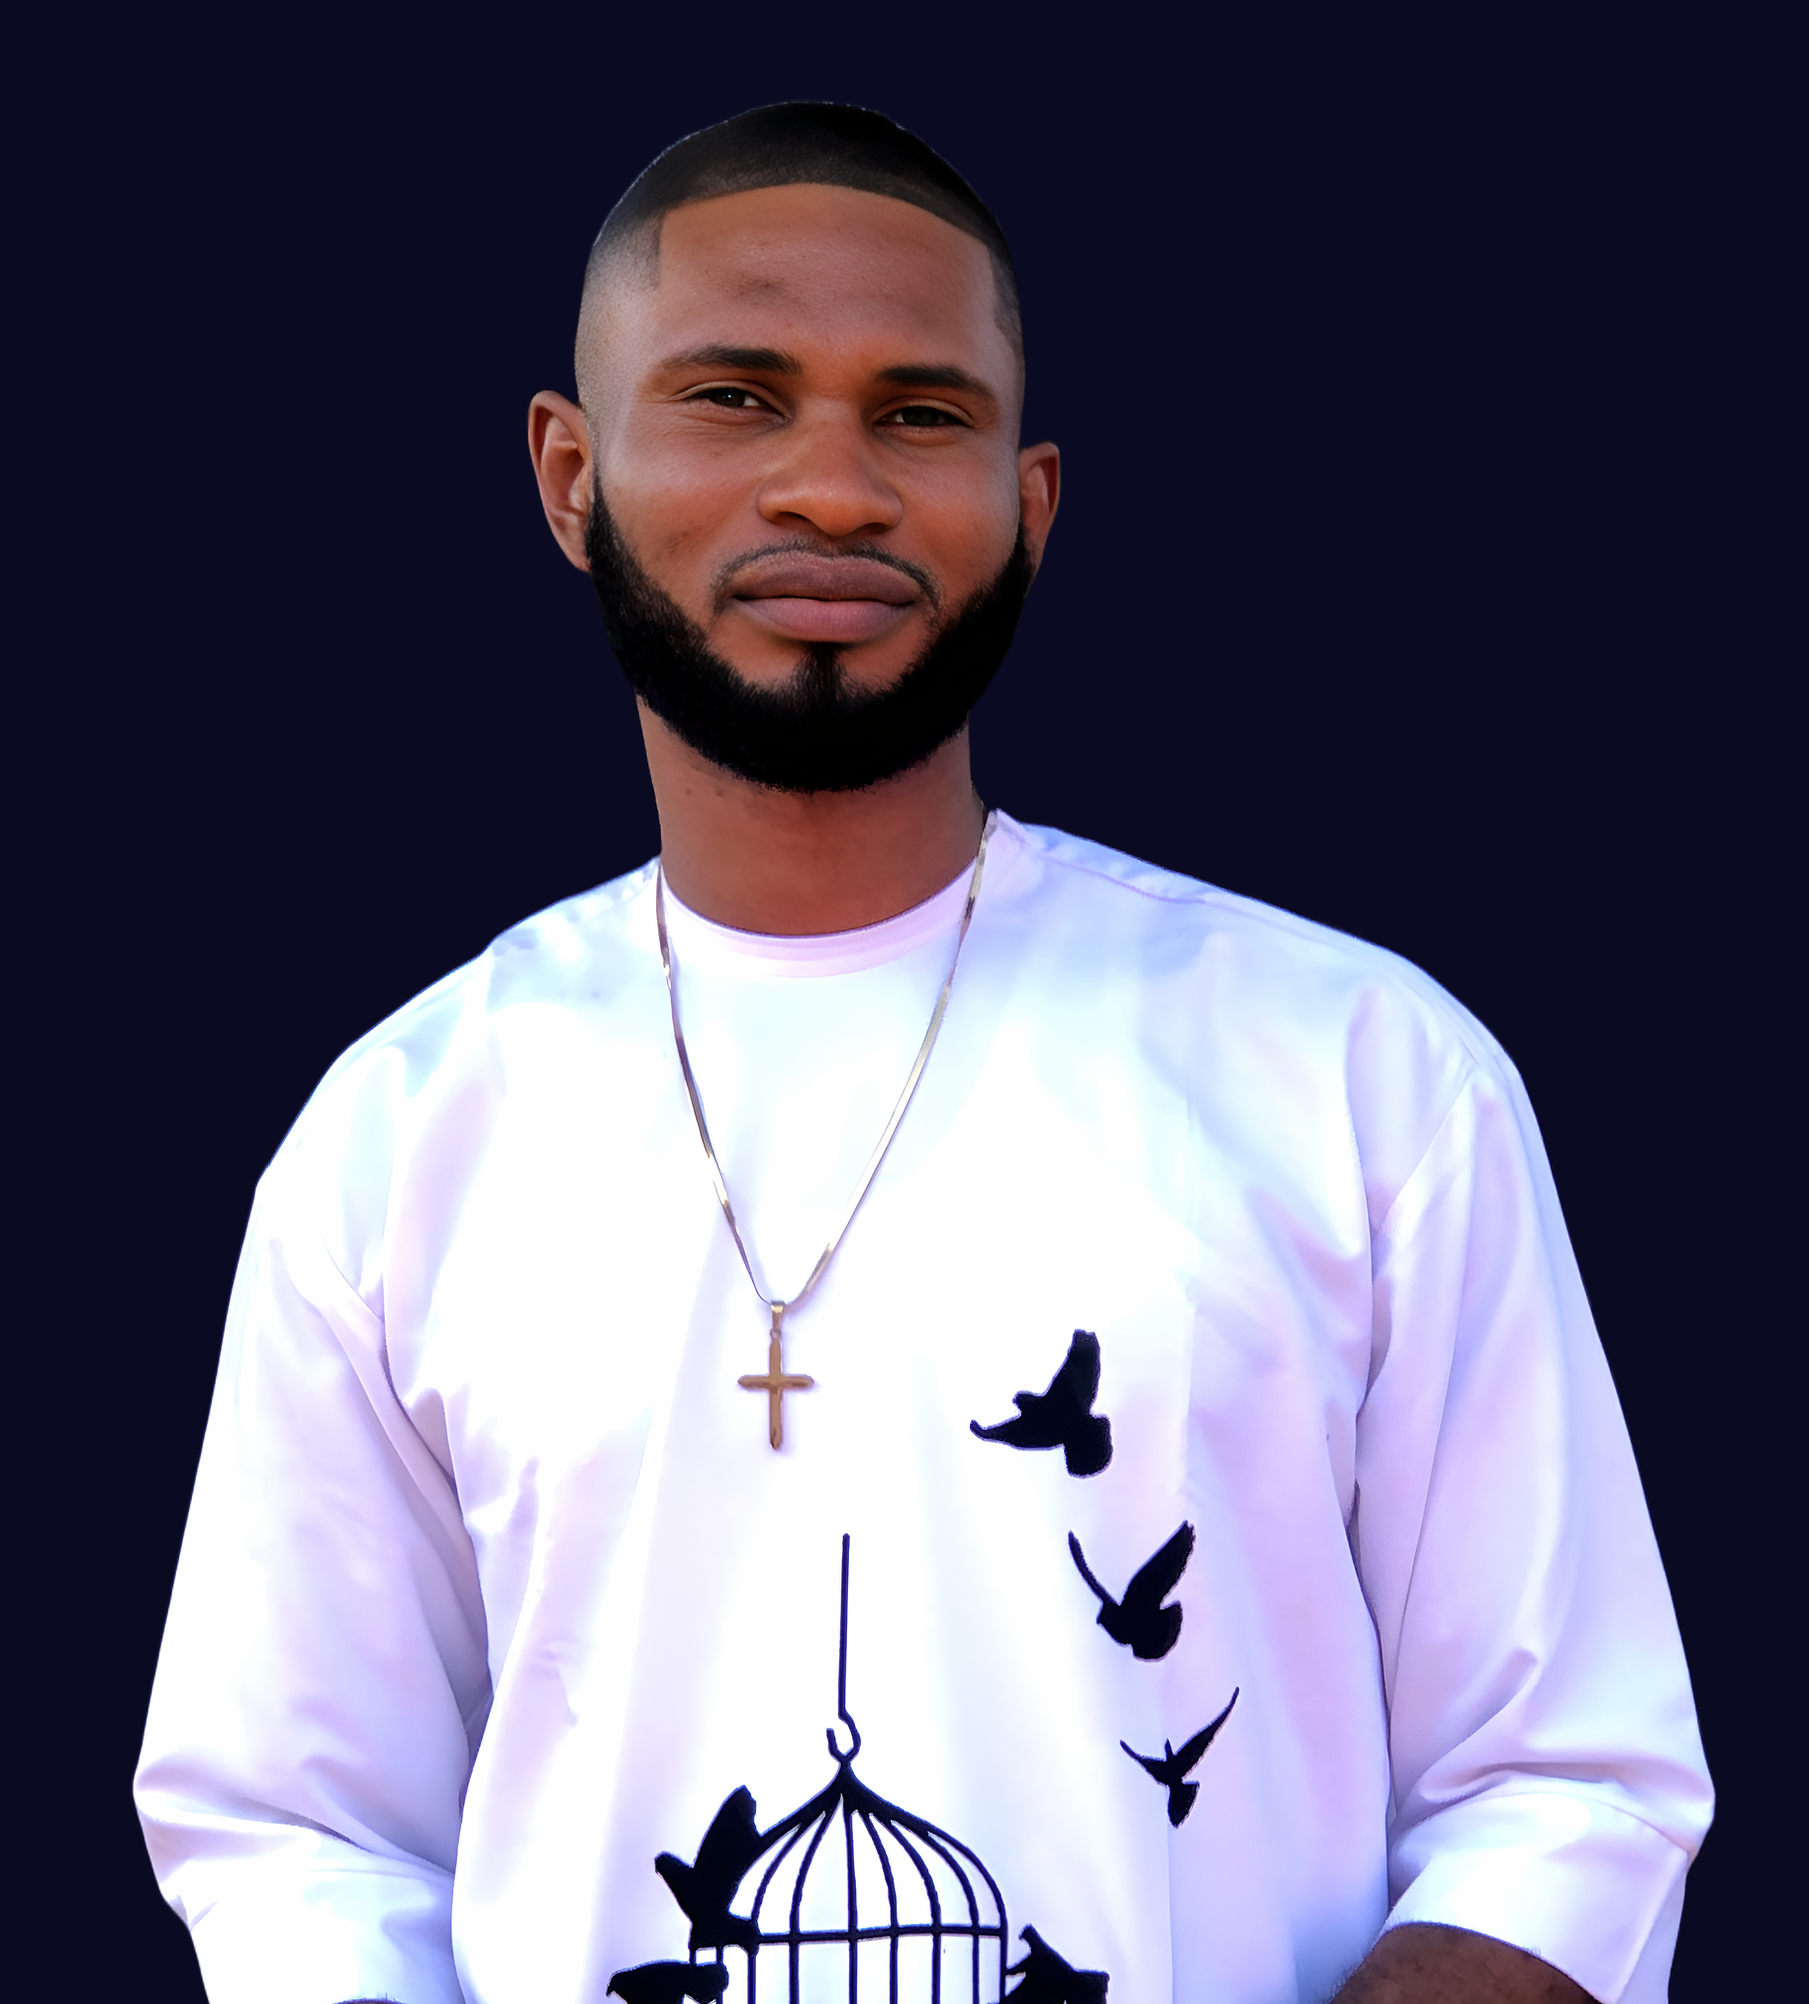
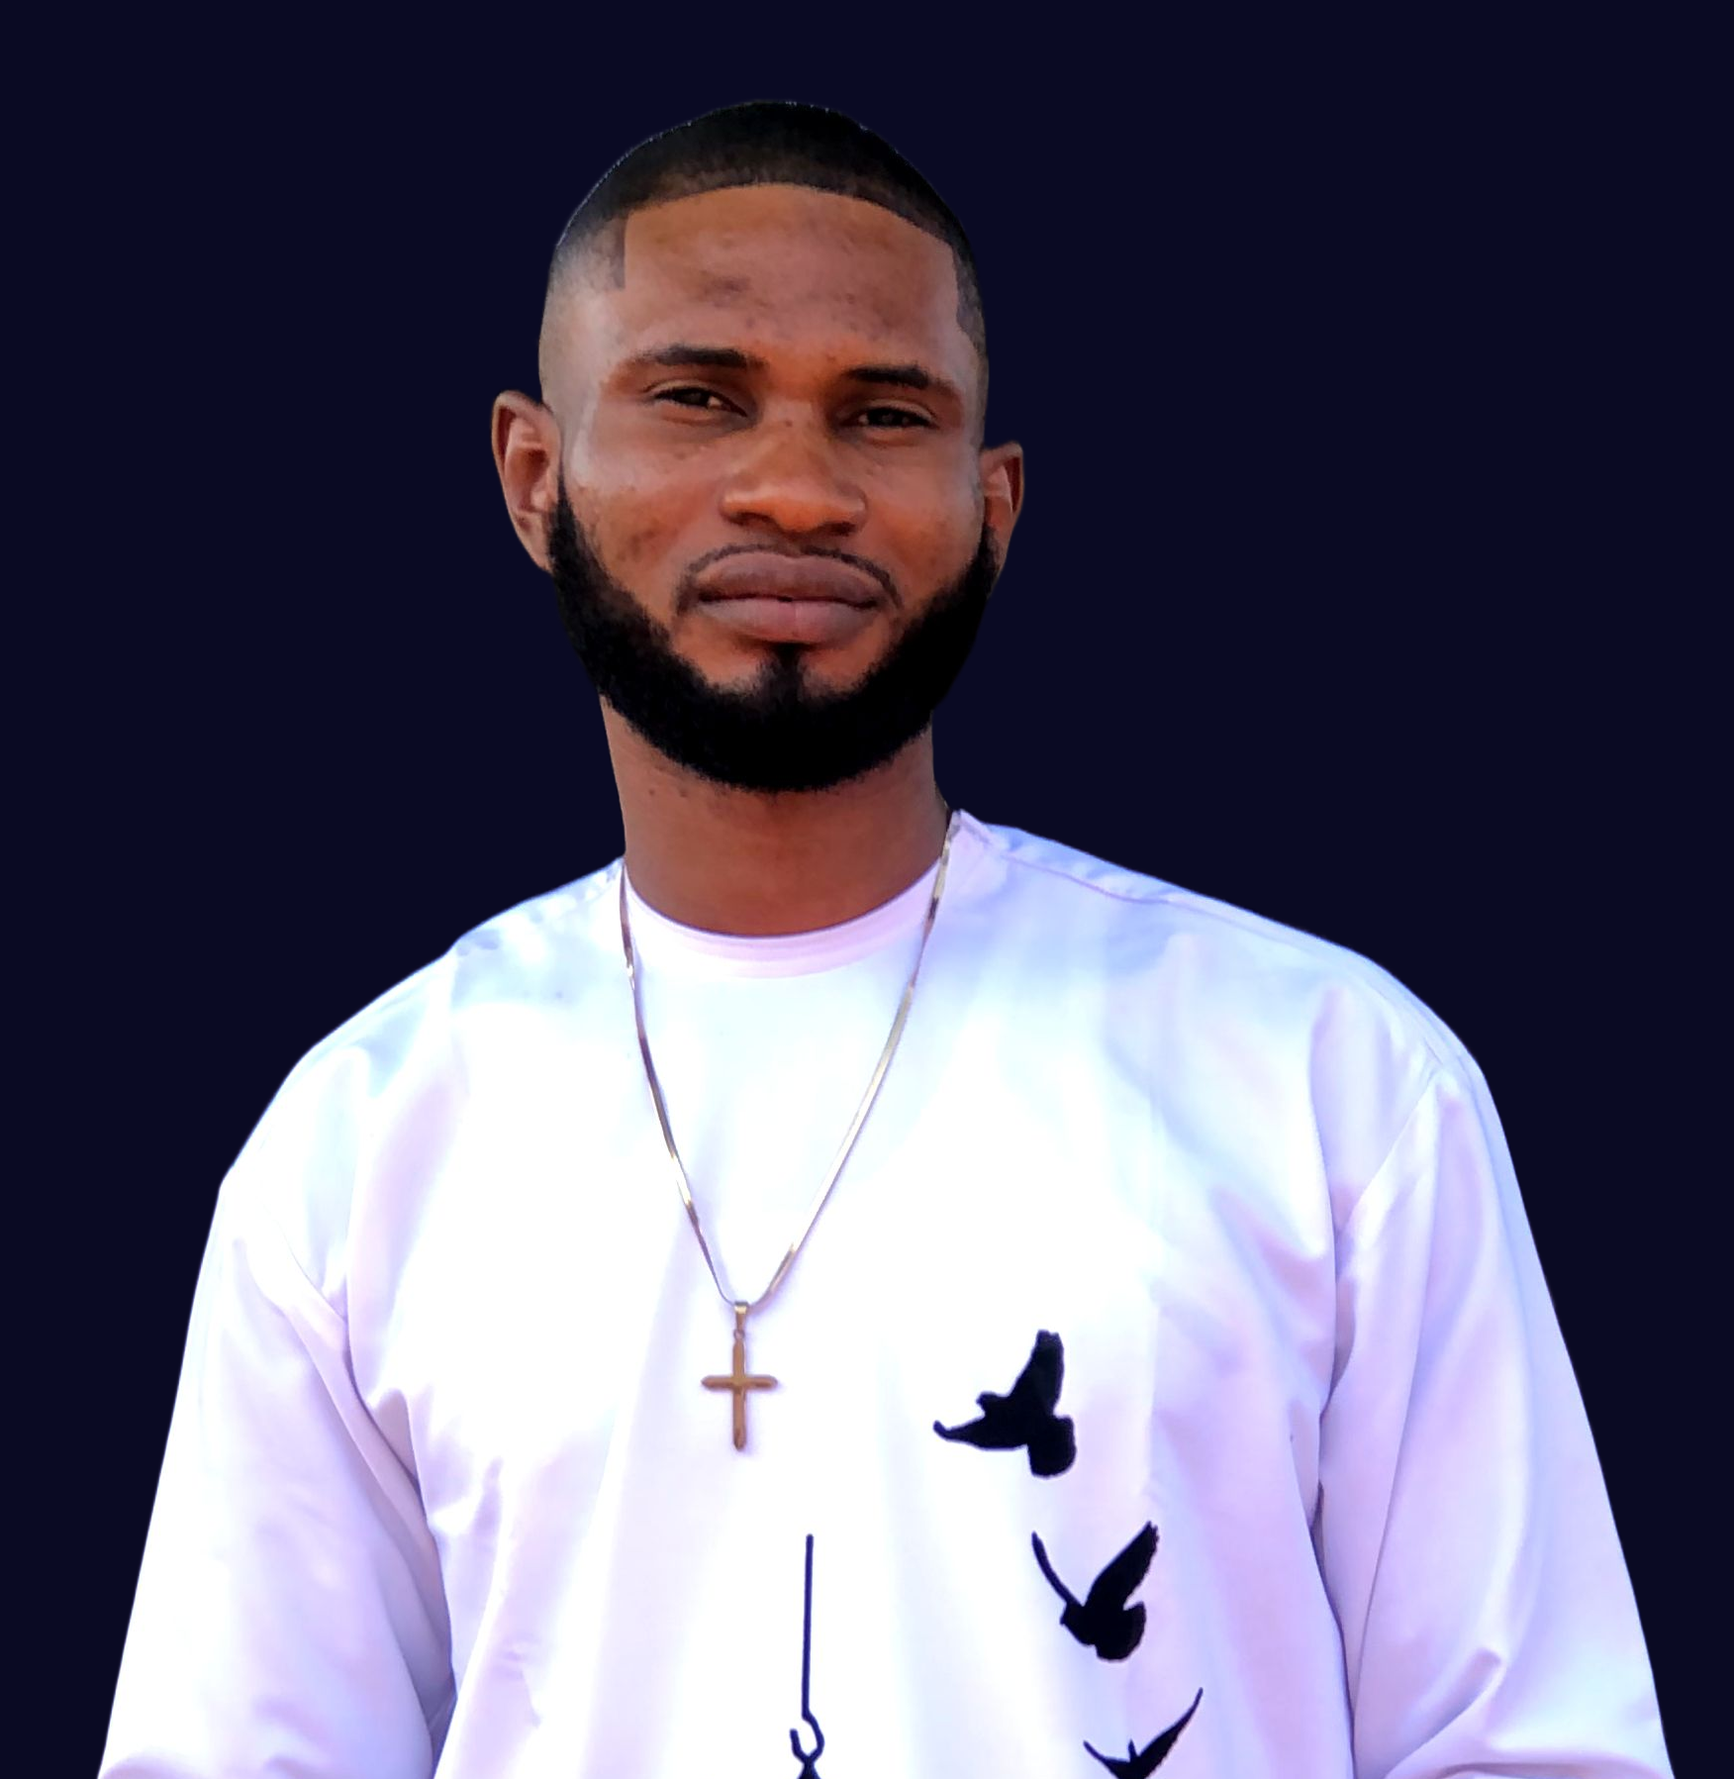
made changes

Changed region(s): [[0.0308, 0.0312, 0.9863, 1.0], [0.0925, 0.6856, 0.1233, 0.8102]]

diff --git a/CSS/Responsiveness.css b/CSS/Responsiveness.css
@@ -1,11 +1,23 @@
+
 @media (max-width: 1280px) {
+  .footer{
+    padding: 0 2rem;
+    padding-bottom: 1rem;
+   max-width: 1280px;
+  }
   #hero {
     padding: 10rem 7rem 0;
+  }
+}
+@media(max-width: 1233px){
+  #hero{
+    padding-right: 3rem;
   }
 }
 @media (max-width: 1150px) {
   #hero {
     padding: 10rem 5rem 0;
+    padding-right: 2rem;
   }
   header {
     padding: 1rem 2rem;
@@ -24,10 +36,15 @@
   .myservice h2 {
     justify-self: flex-end;
   }
+   #contact {
+    gap: 5rem;
+    padding: 5rem 2rem 7rem;
+  }
 }
 @media (max-width: 990px) {
   #hero {
     padding: 10rem 2rem 0;
+    padding-right: 1rem;
   }
   header a {
     font-size: 0.8rem;
@@ -45,22 +62,35 @@
   .container {
     padding: 0 2rem;
 }
+.footer{
+  padding-top: 0;
+  padding: 1rem;
+}
+}
+@media (max-width: 937px){
+  .hero-img {
+  height: 400px;
+  width: 500px;
+}
+      #contact {
+        gap: 2rem;
+        padding: 5rem 2rem 7rem;
+    }
 }
 @media (max-width: 896px) {
   h1 {
     font-size: 2rem;
-  }
-  footer {
-    padding: 0 2rem 1rem;
   }
   .project-img-container img {
     height: 200px;
     width: 200px;
   }
   #contact {
-    gap: 3rem;
     padding: 5rem 2rem 7rem;
   }
+  #details {
+    flex-basis: 60%;
+}
 }
 @media (max-width: 828px) {
   #contact {
@@ -69,6 +99,10 @@
   header a {
     font-size: 0.6rem;
   }
+  .hero-img {
+  height: 350px;
+  width: 550px;
+}
 }
 @media (max-width: 768px) {
   body.no-scroll {
@@ -166,6 +200,9 @@
     justify-self: center;
     padding: 2rem 5rem;
   }
+    #hero h1 {
+        animation: fadeInScale 1.2s ease-out, typing 2.5s steps(30, end);
+    }
   .myservice h2 {
     justify-self: center;
   }
@@ -181,6 +218,7 @@
   }
   .skill-header {
     padding: 0 5rem;
+    margin-bottom: 2rem;
   }
   .cards {
     flex-direction: column;
@@ -194,10 +232,13 @@
     flex-direction: column;
     padding: 5rem 5rem 7rem;
   }
-  footer {
-    display: grid;
-    grid-template-columns: 1fr 1fr;
-    gap: 3rem;
+  .footer{
+     display: flex;
+     flex-wrap: wrap;
+    justify-content: center;
+    column-gap: 15rem;
+    row-gap: 2rem;
+    width: 100%;
   }
   .copyright {
     order: 2;
@@ -214,6 +255,12 @@
 }
 .testimonial-image {
   flex-direction: column;
+}
+.tech-img{
+  display: none;
+}
+ #details {
+    flex-basis: 100%;
 }
 }
 @media (max-width: 630px) {
@@ -235,6 +282,9 @@
         }
           .container {
     padding: 0 2rem;
+}
+.footer{
+  column-gap: 10rem;
 }
 }
 @media (max-width: 540px) {
@@ -308,7 +358,9 @@
   #AboutMe {
     padding: 0 1rem;
   }
- 
+ .skill-header {
+    margin-bottom: 1rem;
+  }
   #contact {
     padding: 5rem 1rem 7rem;
   }

diff --git a/index.html b/index.html
@@ -91,12 +91,12 @@
       </div>
       <div class="hero-img">
         <img
-          src="image/AutoEnhancer_Edited img.png"
+          src="image/Mobile-hero-img.png"
           alt="my picture"
           class="desktop-hero-img"
         />
         <img
-          src="image/Mobile-hero-img 1.png"
+          src="image/Mobile-hero-img 2.png"
           alt="My image"
           class="mobile-hero-img"
         />
@@ -416,12 +416,8 @@
         <h2>Get in touch for more information</h2>
         <div class="contact-details">
           <div class="contact-icon phone-No">
-            <div class="icon">
-              <svg xmlns="http://www.w3.org/2000/svg" viewBox="0 0 512 512">
-                <path
-                  d="M347.1 24.6c7.7-18.6 28-28.5 47.4-23.2l88 24C499.9 30.2 512 46 512 64c0 247.4-200.6 448-448 448c-18 0-33.8-12.1-38.6-29.5l-24-88c-5.3-19.4 4.6-39.7 23.2-47.4l96-40c16.3-6.8 35.2-2.1 46.3 11.6L207.3 368c70.4-33.3 127.4-90.3 160.7-160.7L318.7 167c-13.7-11.2-18.4-30-11.6-46.3l40-96z"
-                />
-              </svg>
+            <div class="icon WIcon">
+              <svg xmlns="http://www.w3.org/2000/svg" width="32" height="32" fill="#ffffff" viewBox="0 0 256 256"><path d="M187.58,144.84l-32-16a8,8,0,0,0-8,.5l-14.69,9.8a40.55,40.55,0,0,1-16-16l9.8-14.69a8,8,0,0,0,.5-8l-16-32A8,8,0,0,0,104,64a40,40,0,0,0-40,40,88.1,88.1,0,0,0,88,88,40,40,0,0,0,40-40A8,8,0,0,0,187.58,144.84ZM152,176a72.08,72.08,0,0,1-72-72A24,24,0,0,1,99.29,80.46l11.48,23L101,118a8,8,0,0,0-.73,7.51,56.47,56.47,0,0,0,30.15,30.15A8,8,0,0,0,138,155l14.61-9.74,23,11.48A24,24,0,0,1,152,176ZM128,24A104,104,0,0,0,36.18,176.88L24.83,210.93a16,16,0,0,0,20.24,20.24l34.05-11.35A104,104,0,1,0,128,24Zm0,192a87.87,87.87,0,0,1-44.06-11.81,8,8,0,0,0-6.54-.67L40,216,52.47,178.6a8,8,0,0,0-.66-6.54A88,88,0,1,1,128,216Z"></path></svg>
             </div>
             <div>
               <p>Phone</p>
@@ -459,7 +455,8 @@
     </section>
     <hr />
     <footer>
-      <div class="logo-footer">
+     <div class="footer">
+       <div class="logo-footer">
        <a href=""> <img src="image/Winner-logo (1).png" alt="My Logo" /></a>
       </div>
      <!-- Copyright Notice -->
@@ -489,6 +486,7 @@
           </svg>
         </a>
       </div>
+     </div>
     </footer>
     <script src="https://ajax.googleapis.com/ajax/libs/jquery/3.7.1/jquery.min.js"></script>
     <script src="index.js"></script>

diff --git a/CSS/Stylesheet.css b/CSS/Stylesheet.css
@@ -117,6 +117,7 @@ header {
   justify-content: space-between;
   gap: 4rem;
   padding: 10rem 10rem 0;
+  padding-right: 5rem;
   margin: 0 0 10rem;
 }
 .hero-description {
@@ -124,7 +125,7 @@ header {
 }
 .hero-img {
   height: 500px;
-  width: 400px;
+  width: 500px;
 }
 #hero .desktop-hero-img {
   height: 100%;
@@ -133,13 +134,44 @@ header {
 .hero-img .mobile-hero-img {
   display: none;
 }
-/* Typewriter and Pop-in Animation for h1 */
-h1 .name, h1 .web {
-  display: inline-block;
-  overflow: hidden;
-  white-space: nowrap;
-  animation: typewriter 3s steps(30, end) forwards;
+.tech-img{
+  height: 100vh;
+  width: auto;
 }
+.tech-img img{
+  position: absolute;
+  right: 0;
+  height: 100%;
+  width: 50%;
+  z-index: -1;
+}
+/* Typewriter and Pop-in Animation for h1 */
+#hero h1 {
+    overflow: hidden;
+    white-space: nowrap;
+    animation: fadeInScale 1.5s ease-out, typing 3s steps(40, end);
+}
+
+@keyframes fadeInScale {
+    0% {
+        opacity: 0;
+        transform: scale(0.1);
+    }
+    100% {
+        opacity: 1;
+        transform: scale(1);
+    }
+}
+
+@keyframes typing {
+    from {
+        width: 100%;
+    }
+    to {
+        width: 100%;
+    }
+}
+
 
 h1 {
   font-size: 2rem;
@@ -585,18 +617,27 @@ hr {
   min-width: 50px;
   padding: 1rem;
 }
-footer {
+.WIcon{
+  display: flex;
+  justify-content: center;
+  padding: 0.7rem 0;
+}
+footer{
   background-color: #000;
+}
+.footer {
   display: flex;
   align-items: flex-end;
-  padding: 0 5rem 1rem;
+  justify-content: center;
+  padding-bottom: 1rem;
+  max-width: 1200px;
+  margin: 0 auto;
 }
 .logo-footer {
   filter: brightness(0) saturate(100%) invert(47%) sepia(85%) saturate(2006%) hue-rotate(171deg) brightness(100%) contrast(109%);
   padding-top: 2rem;
   height: 100px;
   width: auto;
-  /* flex-basis: 50%; */
 }
 .logo-footer img {
   height: 100%;
